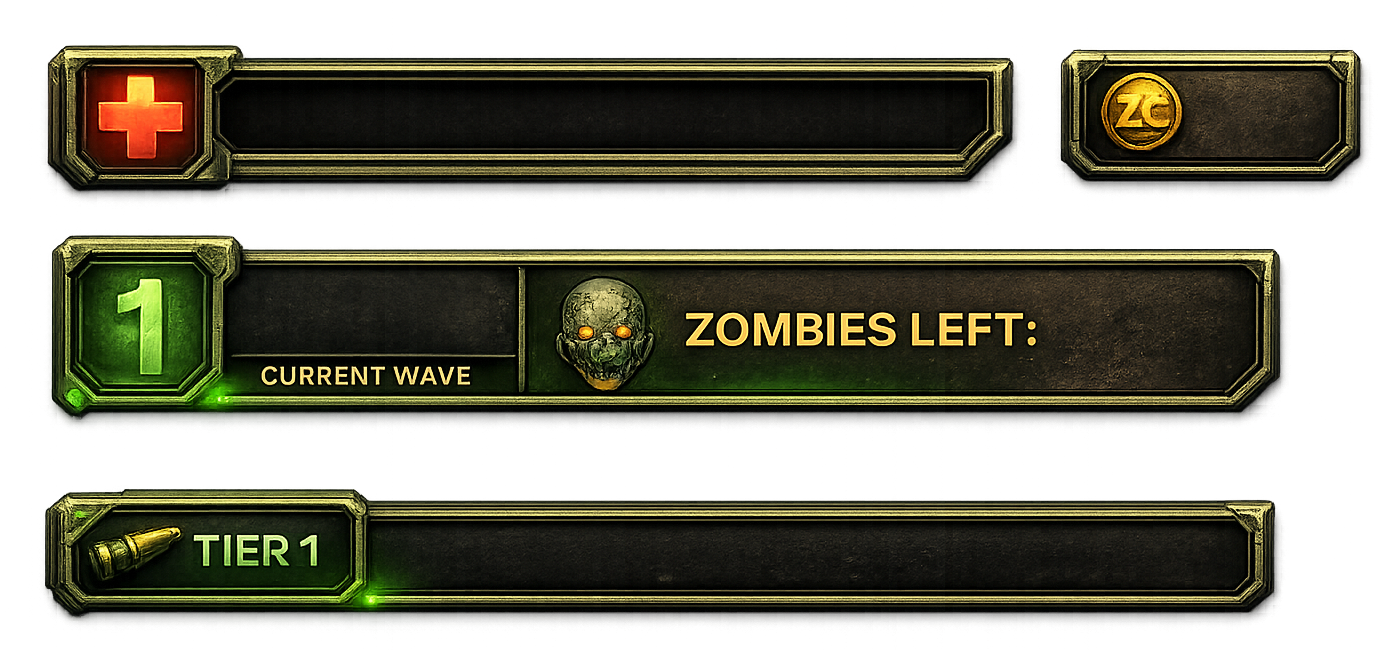
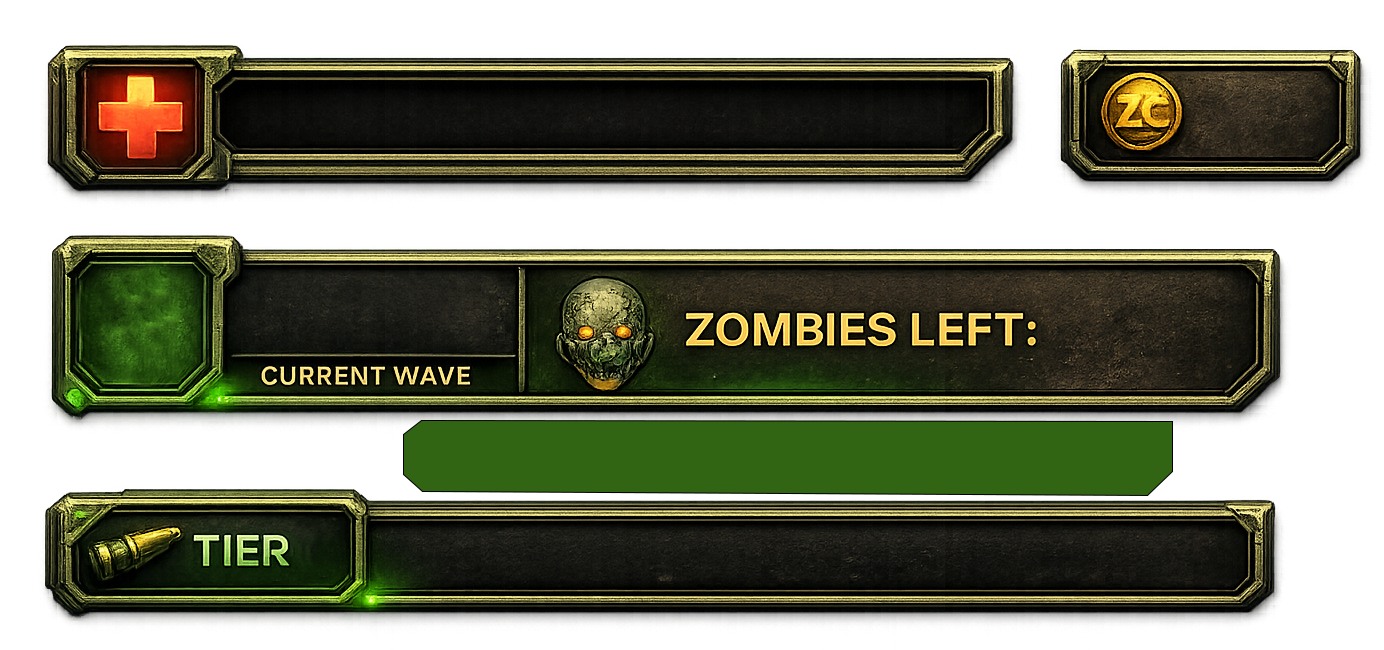
ft: add new hud

Changed region(s): [[0.2796, 0.6462, 0.8699, 0.7692], [0.0311, 0.4, 0.1243, 0.6154], [0.2175, 0.8308, 0.2486, 0.8615]]

diff --git a/src/ui.tsx b/src/ui.tsx
@@ -6,7 +6,6 @@ import { getZombieCoins } from './zombieCoins'
 import { getGameTime } from './zombie'
 import { isRaging, getRageTimeLeft } from './rageEffect'
 import {
-  getCurrentWeapon,
   isShotgunUnlocked,
   isMinigunUnlocked,
   canAffordShotgun,
@@ -31,6 +30,30 @@ import { WaveCyclePhase } from './shared/matchRuntimeSchemas'
 import { getServerTime } from './shared/timeSync'
 
 const ENABLE_LEGACY_LOBBY_ROUND_UI = false
+const PLAYER_HP_FRAME_WIDTH = 774
+const PLAYER_HP_FRAME_HEIGHT = 114
+const PLAYER_HP_FRAME_UVS = [0.033237, 0.709231, 0.033237, 0.929231, 0.732659, 0.929231, 0.732659, 0.709231]
+const PLAYER_HP_FILL_SOURCE_W = 770
+const PLAYER_HP_FILL_SOURCE_H = 76
+const PLAYER_HP_FILL_OFFSET_X = 170
+const PLAYER_HP_FILL_OFFSET_Y = 30
+const PLAYER_HP_FILL_UVS = [0.290462, 0.238462, 0.290462, 0.355385, 0.846821, 0.355385, 0.846821, 0.238462]
+const WAVE_ZOMBIES_PANEL_WIDTH = 992
+const WAVE_ZOMBIES_PANEL_HEIGHT = 152
+const WAVE_ZOMBIES_PANEL_UVS = [0.032514, 0.358462, 0.032514, 0.650769, 0.928468, 0.650769, 0.928468, 0.358462]
+const WEAPONS_SHEET_SRC = 'assets/images/WEAPONS.png'
+const GUN_BUTTON_WIDTH = 180
+const GUN_BUTTON_HEIGHT = 139
+const GUN_BUTTON_UVS = [0.010417, 0.416016, 0.010417, 0.6875, 0.244141, 0.6875, 0.244141, 0.416016]
+const SHOTGUN_BUTTON_WIDTH = 184
+const SHOTGUN_BUTTON_HEIGHT = 138
+const SHOTGUN_BUTTON_UVS = [0.257813, 0.418945, 0.257813, 0.6875, 0.497396, 0.6875, 0.497396, 0.418945]
+const MINIGUN_BUTTON_WIDTH = 187
+const MINIGUN_BUTTON_HEIGHT = 139
+const MINIGUN_BUTTON_UVS = [0.748698, 0.416992, 0.748698, 0.6875, 0.992188, 0.6875, 0.992188, 0.416992]
+const BRICK_BUTTON_WIDTH = 180
+const BRICK_BUTTON_HEIGHT = 137
+const BRICK_BUTTON_UVS = [0.503906, 0.418945, 0.503906, 0.686523, 0.73763, 0.686523, 0.73763, 0.418945]
 
 export function setupUi() {
   ReactEcsRenderer.setUiRenderer(uiMenu, { virtualWidth: 1920, virtualHeight: 1080 })
@@ -65,6 +88,15 @@ export const uiMenu = () => {
   const showCenteredOverlay = (!isIdle || playerDead) && !inMatchContext
 
   const showZcCounter = !isIdle || inMatchContext
+  const playerHpRatio = Math.max(0, Math.min(1, getPlayerHp() / MAX_HP))
+  const hpFrameScale = PLAYER_HP_FRAME_WIDTH / 968
+  const playerHpFillWidth = Math.round(PLAYER_HP_FILL_SOURCE_W * hpFrameScale)
+  const playerHpFillHeight = Math.round(PLAYER_HP_FILL_SOURCE_H * hpFrameScale)
+  const playerHpFillOffsetX = Math.round(PLAYER_HP_FILL_OFFSET_X * hpFrameScale)
+  const playerHpFillOffsetY = Math.round(PLAYER_HP_FILL_OFFSET_Y * hpFrameScale)
+  const playerHpFillVisibleWidth = Math.max(0, Math.min(playerHpFillWidth, PLAYER_HP_FRAME_WIDTH - playerHpFillOffsetX))
+  const playerHpFillVisibleHeight = Math.max(0, Math.min(playerHpFillHeight, PLAYER_HP_FRAME_HEIGHT - playerHpFillOffsetY))
+  const playerHpFillCurrentWidth = Math.max(0, Math.round(playerHpFillVisibleWidth * playerHpRatio))
 
   return (
     <UiEntity
@@ -221,95 +253,133 @@ export const uiMenu = () => {
           </UiEntity>
         </UiEntity>
       )}
-      {inMatchContext && matchRuntime?.isRunning && (
+      {showZcCounter && (
         <UiEntity
           uiTransform={{
-            position: { top: 24, left: 0 },
+            position: { left: 64, top: 176 },
             positionType: 'absolute',
-            width: '100%',
             flexDirection: 'row',
-            alignItems: 'center',
-            justifyContent: 'center'
+            alignItems: 'flex-start',
+            justifyContent: 'flex-start'
           }}
         >
           <UiEntity
             uiTransform={{
-              minWidth: 380,
-              height: 54,
-              padding: { left: 18, right: 18, top: 8, bottom: 8 }
+              width: PLAYER_HP_FRAME_WIDTH,
+              height: PLAYER_HP_FRAME_HEIGHT,
+              positionType: 'relative'
             }}
-            uiBackground={{ color: Color4.create(0.08, 0.08, 0.1, 0.86) }}
           >
             <UiEntity
               uiTransform={{
-                width: '100%',
-                height: '100%',
-                alignItems: 'center',
-                justifyContent: 'center'
+                width: PLAYER_HP_FRAME_WIDTH,
+                height: PLAYER_HP_FRAME_HEIGHT,
+                positionType: 'absolute',
+                position: { left: 0, top: 0 }
               }}
-              uiText={{
-                value: `Synced Zombies Left: ${syncedZombiesLeft}`,
-                fontSize: 24,
-                color: Color4.create(1, 0.9, 0.6, 1),
-                textAlign: 'middle-center'
+              uiBackground={{
+                textureMode: 'stretch',
+                texture: { src: 'assets/images/HUD.png', filterMode: 'bi-linear', wrapMode: 'clamp' },
+                uvs: PLAYER_HP_FRAME_UVS
               }}
             />
+            <UiEntity
+              uiTransform={{
+                width: playerHpFillVisibleWidth,
+                height: playerHpFillVisibleHeight,
+                positionType: 'absolute',
+                position: { left: playerHpFillOffsetX, top: playerHpFillOffsetY },
+                flexDirection: 'row',
+                alignItems: 'center',
+                justifyContent: 'flex-start'
+              }}
+            >
+              <UiEntity
+                uiTransform={{
+                  width: playerHpFillCurrentWidth,
+                  height: playerHpFillVisibleHeight
+                }}
+                uiBackground={{
+                  textureMode: 'stretch',
+                  texture: { src: 'assets/images/HUD.png', filterMode: 'bi-linear', wrapMode: 'clamp' },
+                  uvs: PLAYER_HP_FILL_UVS
+                }}
+              />
+            </UiEntity>
           </UiEntity>
         </UiEntity>
       )}
       {showZcCounter && (
         <UiEntity
           uiTransform={{
-            position: { top: 0, bottom: 0, right: 24 },
+            position: { left: 0, right: 0, top: 24 },
             positionType: 'absolute',
             flexDirection: 'row',
-            alignItems: 'center',
-            justifyContent: 'flex-end'
+            alignItems: 'flex-start',
+            justifyContent: 'center'
           }}
         >
           <UiEntity
             uiTransform={{
-              width: 480,
-              height: 132,
-              margin: { right: 36 }
+              width: WAVE_ZOMBIES_PANEL_WIDTH,
+              height: WAVE_ZOMBIES_PANEL_HEIGHT
             }}
             uiBackground={{
-              color: getZombieCoins() >= BRICK_COST_ZC
-                ? Color4.create(0.5, 0.2, 0.1, 0.9)
-                : Color4.create(0.25, 0.2, 0.18, 0.85)
-            }}
-            onMouseDown={() => {
-              if (getZombieCoins() >= BRICK_COST_ZC) tryPlaceBrick()
+              textureMode: 'stretch',
+              texture: { src: 'assets/images/HUD.png', filterMode: 'bi-linear', wrapMode: 'clamp' },
+              uvs: WAVE_ZOMBIES_PANEL_UVS
             }}
           >
             <UiEntity
               uiTransform={{
                 width: '100%',
                 height: '100%',
-                flexDirection: 'column',
+                flexDirection: 'row',
                 alignItems: 'center',
-                justifyContent: 'center',
-                padding: { left: 36, right: 36 }
+                justifyContent: 'space-between',
+                padding: { left: 88, right: 30 }
               }}
-              uiText={{
-                value: `Brick (${BRICK_COST_ZC} ZC)`,
-                fontSize: 54,
-                color:
-                  getZombieCoins() >= BRICK_COST_ZC
-                    ? Color4.create(1, 0.9, 0.8, 1)
-                    : Color4.create(0.6, 0.55, 0.5, 0.9),
-                textAlign: 'middle-center'
-              }}
-            />
+            >
+              <UiEntity
+                uiTransform={{ width: 176, height: 70, margin: { left: 80 } }}
+                uiText={{
+                  value: `${state.currentWave}`,
+                  fontSize: 58,
+                  color: Color4.create(0.7, 1, 0.45, 1),
+                  textAlign: 'middle-center'
+                }}
+              />
+              <UiEntity
+                uiTransform={{ width: 176, height: 70, margin: { left: 26 } }}
+                uiText={{
+                  value: `${syncedZombiesLeft}`,
+                  fontSize: 58,
+                  color: Color4.create(1, 0.85, 0.35, 1),
+                  textAlign: 'middle-center'
+                }}
+              />
+            </UiEntity>
           </UiEntity>
+        </UiEntity>
+      )}
+      {showZcCounter && (
+        <UiEntity
+          uiTransform={{
+            position: { top: 176, right: 24 },
+            positionType: 'absolute',
+            flexDirection: 'row',
+            alignItems: 'flex-start',
+            justifyContent: 'flex-end'
+          }}
+        >
           <UiEntity
             uiTransform={{
-              width: 301,
-              height: 134
+              width: 241,
+              height: 107
             }}
             uiBackground={{
               textureMode: 'stretch',
-              texture: { src: 'assets/images/HUD.png', filterMode: 'point', wrapMode: 'clamp' },
+              texture: { src: 'assets/images/HUD.png', filterMode: 'bi-linear', wrapMode: 'clamp' },
               uvs: [0.765896, 0.72, 0.765896, 0.926154, 0.983382, 0.926154, 0.983382, 0.72]
             }}
           >
@@ -320,11 +390,11 @@ export const uiMenu = () => {
                 flexDirection: 'column',
                 alignItems: 'center',
                 justifyContent: 'center',
-                padding: { left: 16, right: 16 }
+                padding: { left: 18, right: 10 }
               }}
               uiText={{
                 value: `${getZombieCoins()}`,
-                fontSize: 44,
+                fontSize: 35,
                 color: Color4.create(1, 0.85, 0.3, 1),
                 textAlign: 'middle-center'
               }}
@@ -531,59 +601,84 @@ export const uiMenu = () => {
           }}
         >
           {inMatchContext
-            ? (['gun', 'shotgun', 'minigun'] as const).map((weapon) => {
-                const current = getCurrentWeapon() === weapon
+            ? (['gun', 'shotgun', 'minigun', 'brick'] as const).map((weapon) => {
                 const canUse =
                   weapon === 'gun' ||
                   (weapon === 'shotgun' && (isShotgunUnlocked() || canAffordShotgun())) ||
-                  (weapon === 'minigun' && (isMinigunUnlocked() || canAffordMinigun()))
-                const label = weapon === 'gun' ? 'Gun' : weapon === 'shotgun' ? 'Shotgun' : 'Minigun'
-                const bgColor = canUse
-                  ? current
-                    ? Color4.create(0.15, 0.65, 0.25, 1)
-                    : Color4.create(0.2, 0.75, 0.35, 1)
-                  : Color4.create(0.35, 0.35, 0.35, 0.7)
-                const textColor = canUse
-                  ? Color4.create(1, 1, 1, 1)
-                  : Color4.create(0.6, 0.6, 0.6, 0.8)
+                  (weapon === 'minigun' && (isMinigunUnlocked() || canAffordMinigun())) ||
+                  (weapon === 'brick' && getZombieCoins() >= BRICK_COST_ZC)
                 return (
                   <UiEntity
                     key={weapon}
                     uiTransform={{
-                      width: 360,
-                      height: 132,
-                      margin: { left: 24, right: 24 }
+                      width:
+                        weapon === 'gun'
+                          ? GUN_BUTTON_WIDTH
+                          : weapon === 'shotgun'
+                            ? SHOTGUN_BUTTON_WIDTH
+                            : weapon === 'minigun'
+                              ? MINIGUN_BUTTON_WIDTH
+                              : weapon === 'brick'
+                                ? BRICK_BUTTON_WIDTH
+                              : 288,
+                      height:
+                        weapon === 'gun'
+                          ? GUN_BUTTON_HEIGHT
+                          : weapon === 'shotgun'
+                            ? SHOTGUN_BUTTON_HEIGHT
+                            : weapon === 'minigun'
+                              ? MINIGUN_BUTTON_HEIGHT
+                              : weapon === 'brick'
+                                ? BRICK_BUTTON_HEIGHT
+                              : 106,
+                      positionType: 'relative',
+                      margin: { left: 19, right: 19, bottom: 14 }
                     }}
-                    uiBackground={{ color: bgColor }}
+                    uiBackground={
+                      weapon === 'gun'
+                        ? {
+                            textureMode: 'stretch',
+                            texture: { src: WEAPONS_SHEET_SRC, filterMode: 'tri-linear', wrapMode: 'clamp' },
+                            uvs: GUN_BUTTON_UVS
+                          }
+                        : weapon === 'shotgun'
+                          ? {
+                              textureMode: 'stretch',
+                              texture: { src: WEAPONS_SHEET_SRC, filterMode: 'tri-linear', wrapMode: 'clamp' },
+                              uvs: SHOTGUN_BUTTON_UVS
+                            }
+                        : weapon === 'minigun'
+                          ? {
+                              textureMode: 'stretch',
+                              texture: { src: WEAPONS_SHEET_SRC, filterMode: 'tri-linear', wrapMode: 'clamp' },
+                              uvs: MINIGUN_BUTTON_UVS
+                            }
+                        : weapon === 'brick'
+                          ? {
+                              textureMode: 'stretch',
+                              texture: { src: WEAPONS_SHEET_SRC, filterMode: 'tri-linear', wrapMode: 'clamp' },
+                              uvs: BRICK_BUTTON_UVS
+                            }
+                        : { color: Color4.create(0.2, 0.75, 0.35, 1) }
+                    }
                     onMouseDown={() => {
-                      if (canUse) switchTo(weapon)
+                      if (!canUse) return
+                      if (weapon === 'brick') {
+                        tryPlaceBrick()
+                      } else {
+                        switchTo(weapon)
+                      }
                     }}
-                  >
-                    <UiEntity
-                      uiTransform={{
-                        width: '100%',
-                        height: '100%',
-                        flexDirection: 'column',
-                        alignItems: 'center',
-                        justifyContent: 'center'
-                      }}
-                      uiText={{
-                        value: label,
-                        fontSize: 54,
-                        color: textColor,
-                        textAlign: 'middle-center'
-                      }}
-                    />
-                  </UiEntity>
+                  />
                 )
               })
             : (['Load', 'Upgrade'] as const).map((label) => (
                 <UiEntity
                   key={label}
                   uiTransform={{
-                    width: 360,
-                    height: 132,
-                    margin: { left: 24, right: 24 }
+                    width: 288,
+                    height: 106,
+                    margin: { left: 19, right: 19 }
                   }}
                   uiBackground={{ color: Color4.create(0.2, 0.75, 0.35, 1) }}
                 >
@@ -597,7 +692,7 @@ export const uiMenu = () => {
                     }}
                     uiText={{
                       value: label,
-                      fontSize: 54,
+                      fontSize: 43,
                       color: Color4.create(1, 1, 1, 1),
                       textAlign: 'middle-center'
                     }}

diff --git a/src/index.ts b/src/index.ts
@@ -20,7 +20,7 @@ import { initShotGunSystems } from './shotGun'
 import { initMiniGunSystems } from './miniGun'
 import { resetToIdle } from './waveManager'
 import { initBrickSystem } from './brick'
-import { initHealthBarSystem, createHealthBarForPlayer } from './healthBar'
+import { initHealthBarSystem } from './healthBar'
 import {
   isPlayerDead,
   getDeathTime,
@@ -152,9 +152,8 @@ export function main() {
   initRageAura()
   // Deferred brick placement (spawn from game loop, not from UI callback)
   initBrickSystem()
-  // Health bar billboards above zombies and player
+  // Health bar billboards above zombies
   initHealthBarSystem()
-  createHealthBarForPlayer()
   // Add zombie behavior system
   engine.addSystem(zombieSystem)
   // Potion pickup and visual (tilt + spin)
